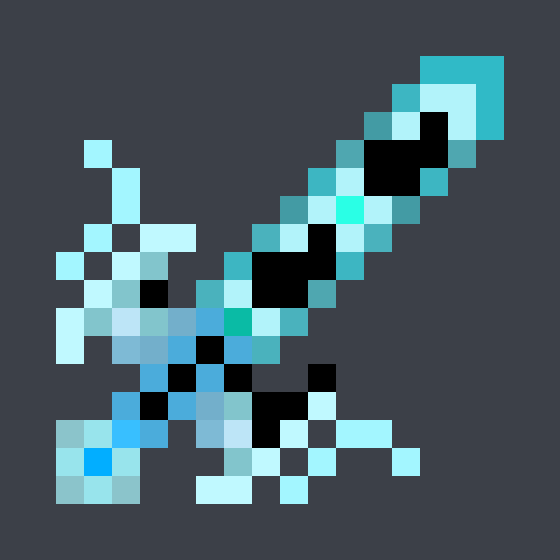
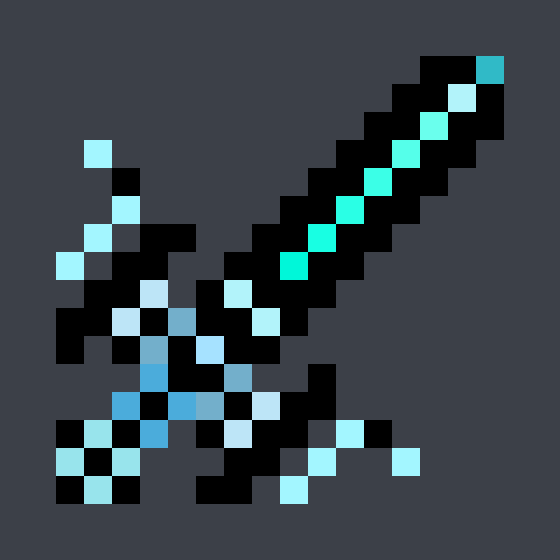
按手涂图生成剑的星空分布
- tools/star_sword_涂黑用.png 已被用户手涂：剑身主体涂黑（= 星空），保留若干原色像素作点缀。
- tools/ref/PaintToCells.java 增加形状门控（以 tools/original/star_sword_git_16.png 的 alpha 为准），
  否则编辑器把透明底压成白/黑会让整片背景被误判。
- tools/sword_star_cells.txt 更新为 71 格星空。
- 重新生成 star_sword.png：黑格给星空，其余像素保留原图颜色；形状仍 0/256 不一致。

diff --git a/tools/ref/PaintToCells.java b/tools/ref/PaintToCells.java
@@ -26,6 +26,9 @@ public final class PaintToCells {
     public static void main(String[] args) throws Exception {
         File file = new File(args.length > 0 ? args[0] : "tools/original/star_sword_16_x32.png");
         BufferedImage img = ImageIO.read(file);
+        // 形状以原始 16×16 为准：涂过的图很可能被编辑器压成了不透明黑底，
+        // 不加这层门控，整片背景都会被判成"星空格"。
+        BufferedImage shape = ImageIO.read(new File("tools/original/star_sword_git_16.png"));
         int size = Math.min(img.getWidth(), img.getHeight());
         double cell = size / (double) CELLS;
 
@@ -56,7 +59,8 @@ public final class PaintToCells {
                         }
                     }
                 }
-                boolean star = total > 0 && dark > total * 0.25;
+                boolean inside = (shape.getRGB(u, v) >>> 24) > 0;
+                boolean star = inside && total > 0 && dark > total * 0.25;
                 sb.append(star ? '#' : '.');
                 if (star) {
                     marked++;
